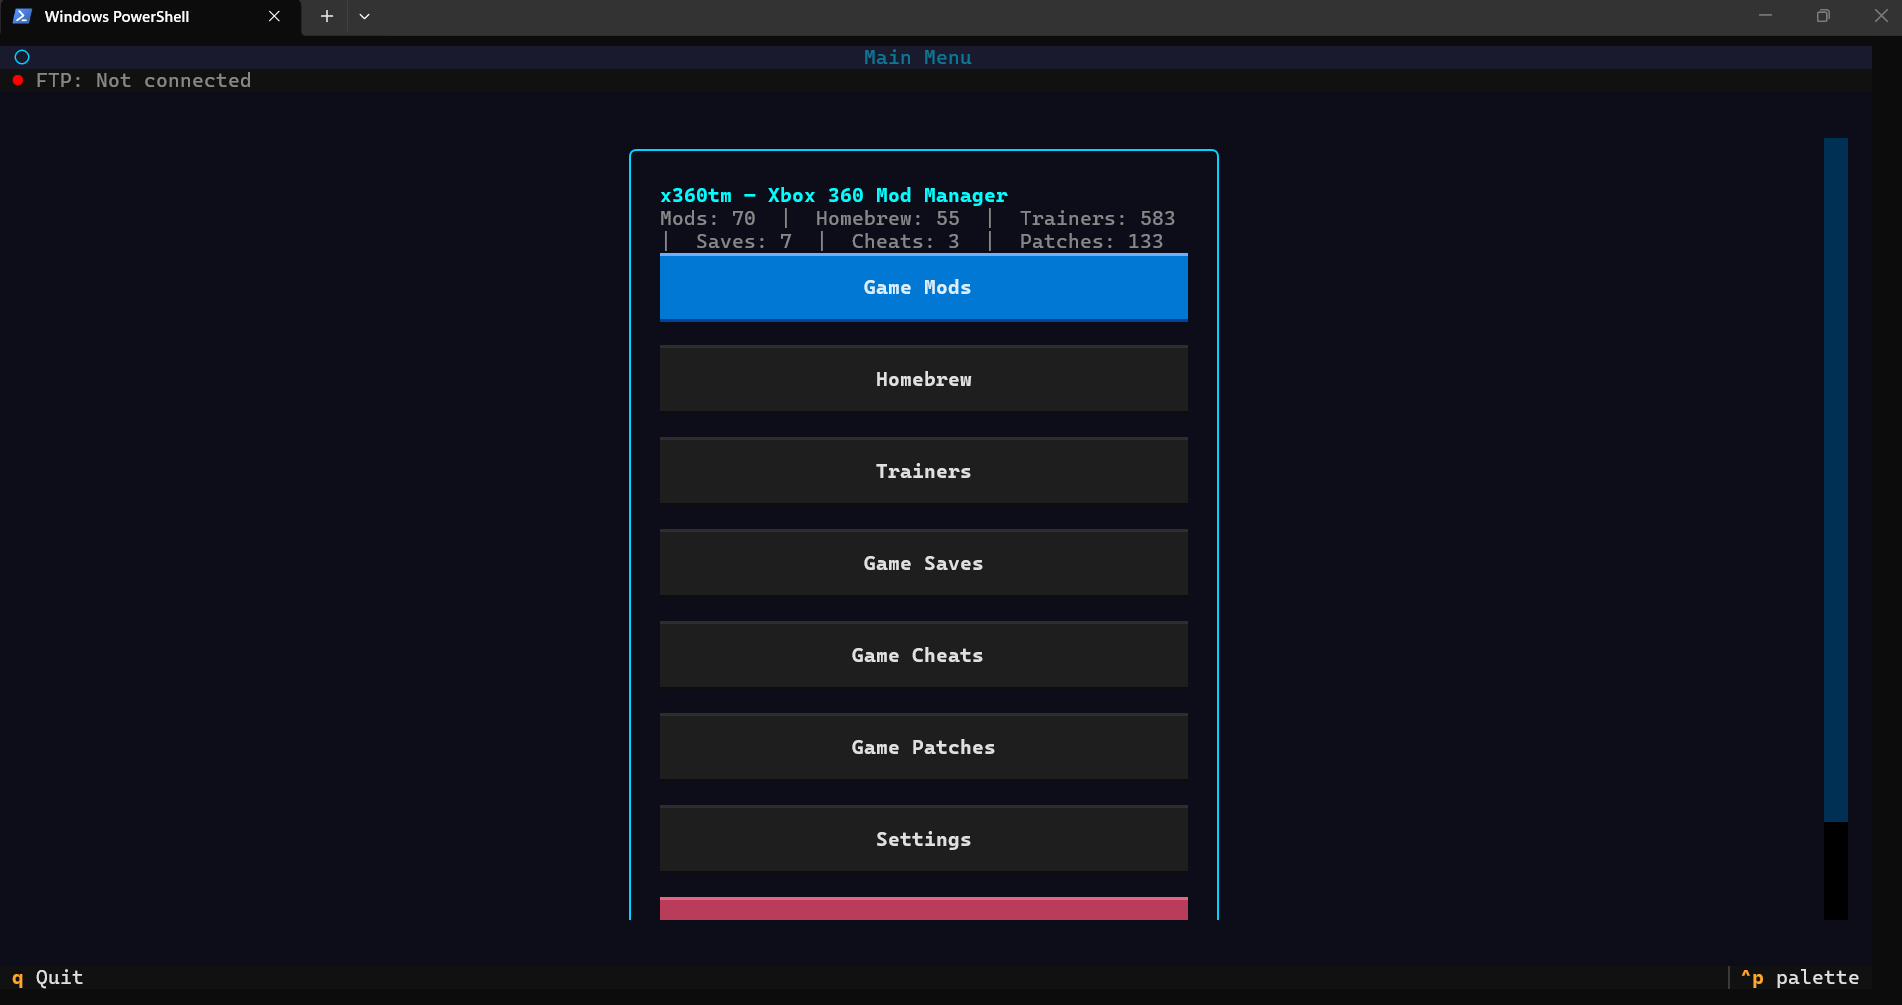
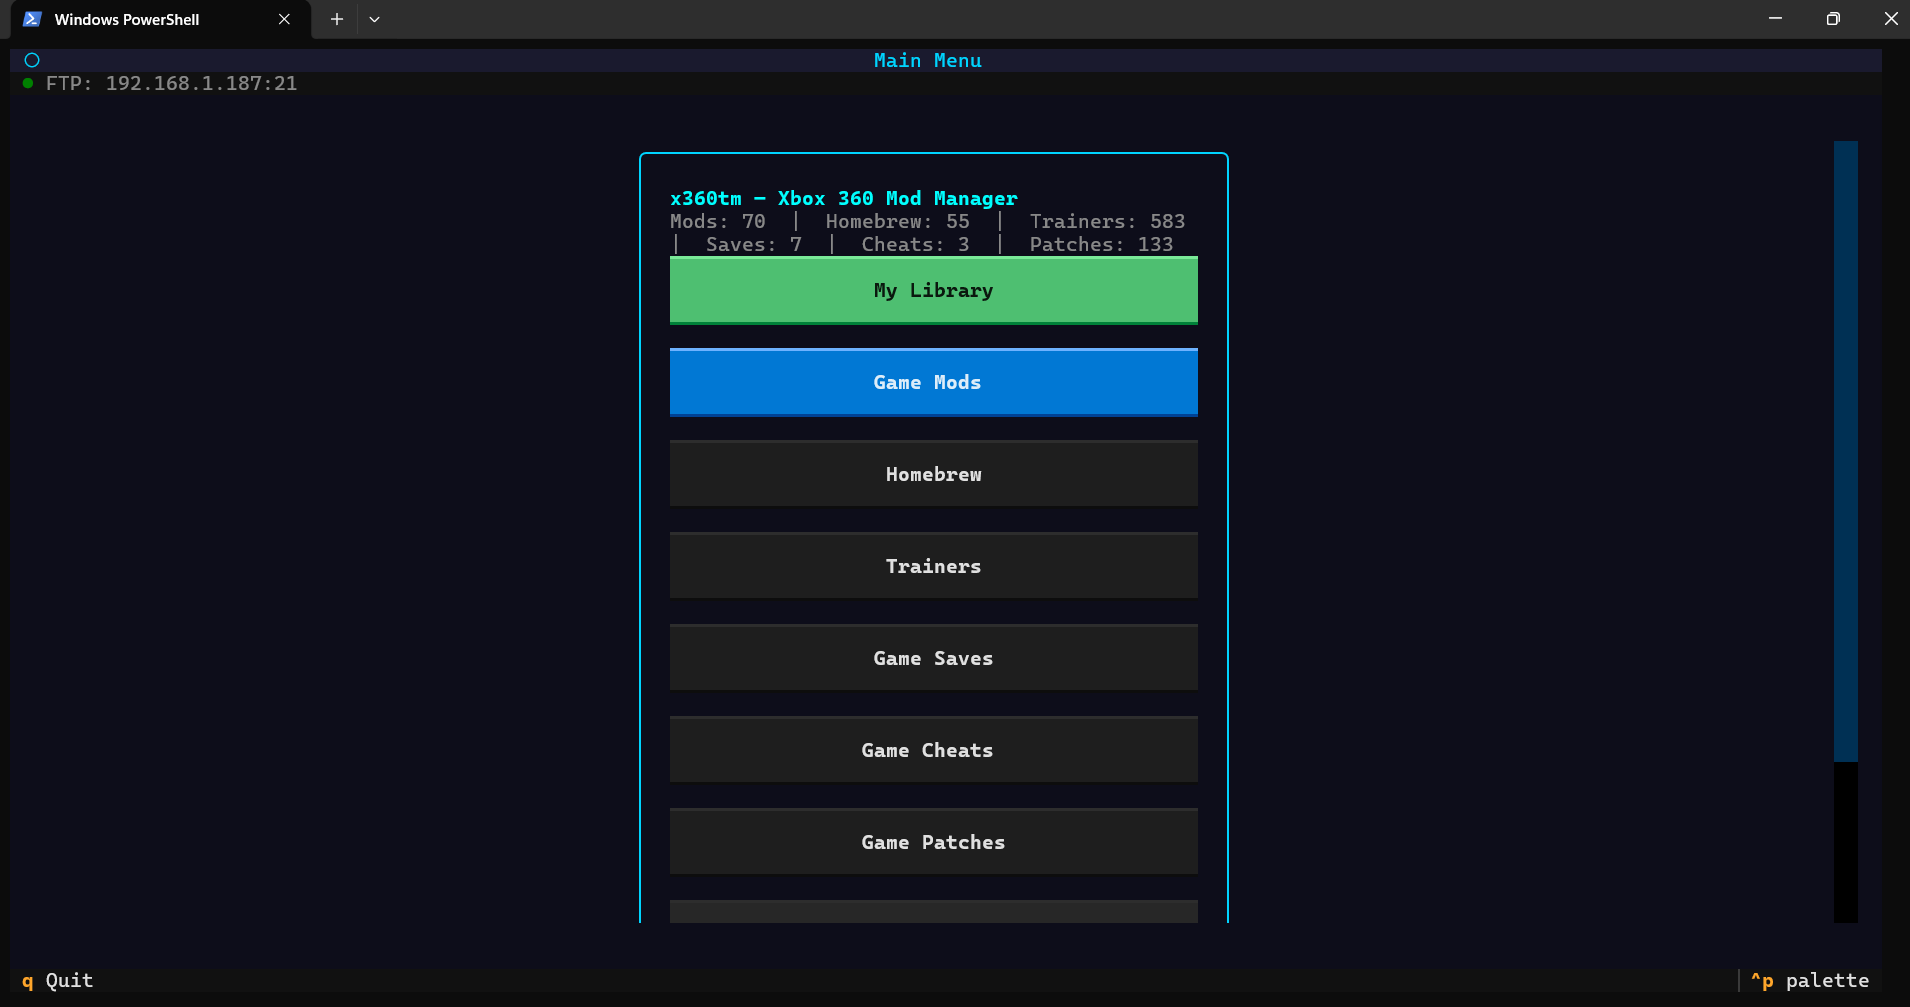
Refactor code structure for improved readability and maintainability

diff --git a/README.md b/README.md
@@ -26,7 +26,75 @@ Data powered by [Arisen Studio](https://arisen.studio) — the largest open Xbox
 
 </div>
 
-## 🚀 What is x360tm?
+## � Screenshots
+
+### Main Menu
+![Main Menu](Screenshots/Home.png)
+*The main menu shows your FTP connection status (green dot = connected), live database counts (583 trainers, 70 mods, 55 homebrew, 133 patches, etc.), and quick-access buttons for every category. My Library is pinned at the top in green.*
+
+---
+
+### My Library — Game List
+![My Library](Screenshots/MyLibrary.png)
+*After scanning your console via FTP, My Library lists all 27 detected games by name and Title ID. Select any game and use the right-hand panel to jump straight into its Trainers, Saves, Mods, Cheats, or Patches.*
+
+---
+
+### Trainers — Library Filter Active
+![Library Trainers](Screenshots/LibraryTrainers.png)
+*Browsing trainers with the library filter applied — only trainers for your installed games are shown. Here GTA V (`545408A7`) has both an Aurora trainer and an XBDM TrainerLoader. The detail pane shows the full install path using `{AURORAPATH}` substitution.*
+
+---
+
+### All Trainers
+![All Trainers](Screenshots/AllTrainers.png)
+*The full trainers browser — 583 trainers across hundreds of games. Search by game name, Title ID, or trainer name. The `[A]` prefix indicates Aurora-compatible trainers; `[X]` indicates XBDM. The Library button in the top-right toggles the library filter.*
+
+---
+
+### Game Mods
+![Game Mods](Screenshots/AllMods.png)
+*70 game mods browsable with name, game, version, author, mod type, and region. The detail pane shows description, credits, files list, and the install path. Library filter available.*
+
+---
+
+### Homebrew
+![Homebrew](Screenshots/AllHomebrew.png)
+*55 homebrew apps across categories: Utilities (XDRPC, JRPC2, XBDM, FakeAnim, GOD Unlocker…), Dashboards (Aurora, FSD, XeXDash…), and Emulators (Amiga360, DosBox, SNES360, Mupen64…). Each entry shows its install path.*
+
+---
+
+### Game Saves
+![Game Saves](Screenshots/AllSaves.png)
+*Pre-made save files for Xbox 360 games — max money, 100% completion, all items unlocked. Region and version shown. Installs directly to your console's save folder via FTP.*
+
+---
+
+### Game Cheats
+![Game Cheats](Screenshots/AllCheats.png)
+*Memory offset cheats for supported games. Shows game, cheat name, region, version, and raw memory offsets. Useful for JTAG/RGH users who apply cheats via memory patching tools.*
+
+---
+
+### Game Patches
+![Game Patches](Screenshots/AllPatches.png)
+*133 title update patches across games including Skyrim, Resident Evil series, GTA V, Mirror's Edge, and more. Source `.patch.toml` files listed with Title ID for accurate matching.*
+
+---
+
+### Settings — Top (Connection & Cache)
+![Settings Top](Screenshots/Settings1.png)
+*Settings page showing the connection profile (`My Xbox 360 — 192.168.1.187:21`), live FTP status (Connected — green), Test Connection / Reconnect / Disconnect buttons, download directory, cache age, and Aurora folder path configuration.*
+
+---
+
+### Settings — Bottom (Library Paths & Save)
+![Settings Bottom](Screenshots/Settings2.png)
+*Lower settings: game library paths (`Usb1\Games`), scan depth (4), and the Save button. All settings persist to JSON in the user config directory.*
+
+---
+
+## �🚀 What is x360tm?
 
 x360tm is a full-featured terminal UI for Xbox 360 modding. Instead of hunting through websites or manually FTP-ing files, you get a fast, searchable, keyboard-driven interface that connects directly to your console and installs everything for you.
 